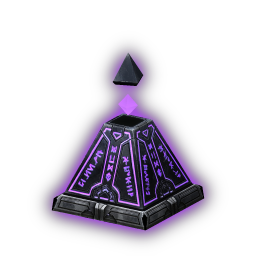
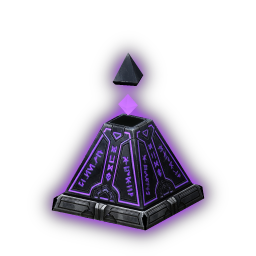
Holocrons: the Sith pyramid's glow at 55 % so its runes stay purple

Changed region(s): [[0.25, 0.4688, 0.75, 0.8125]]

diff --git a/scripts/holocron_assets.py b/scripts/holocron_assets.py
@@ -635,6 +635,9 @@ NORMAL_MAPS = (
     ("holocron_legendary", forms.SITH_SCULPT / "body_n.png"),
     ("holocron_legendary_cap", forms.SITH_SCULPT / "cap_n.png"),
 )
+# The share of the baked glow picture the Sith pyramid's glow stage adds: at full
+# strength, over its face's own light, the runes bloomed to white.
+SITH_GLOW = 0.55
 # The Sith pyramid's cap's own light: its face's, a little under the body's.
 SITH_CAP_OWN = 0.3
 
@@ -652,7 +655,7 @@ def form_layers(base: np.ndarray, steel: np.ndarray, tier: Tier, art: dict):
     if tier.id == "mythical":
         return engram_layers(tier)
     if tier.id == "legendary":
-        return sculpt_picture("body"), sculpt_picture("body_glow")
+        return sculpt_picture("body"), sculpt_picture("body_glow") * SITH_GLOW
     if tier.id in art:
         return art_layers(art[tier.id], tier)
     if tier.id == "uncommon":
